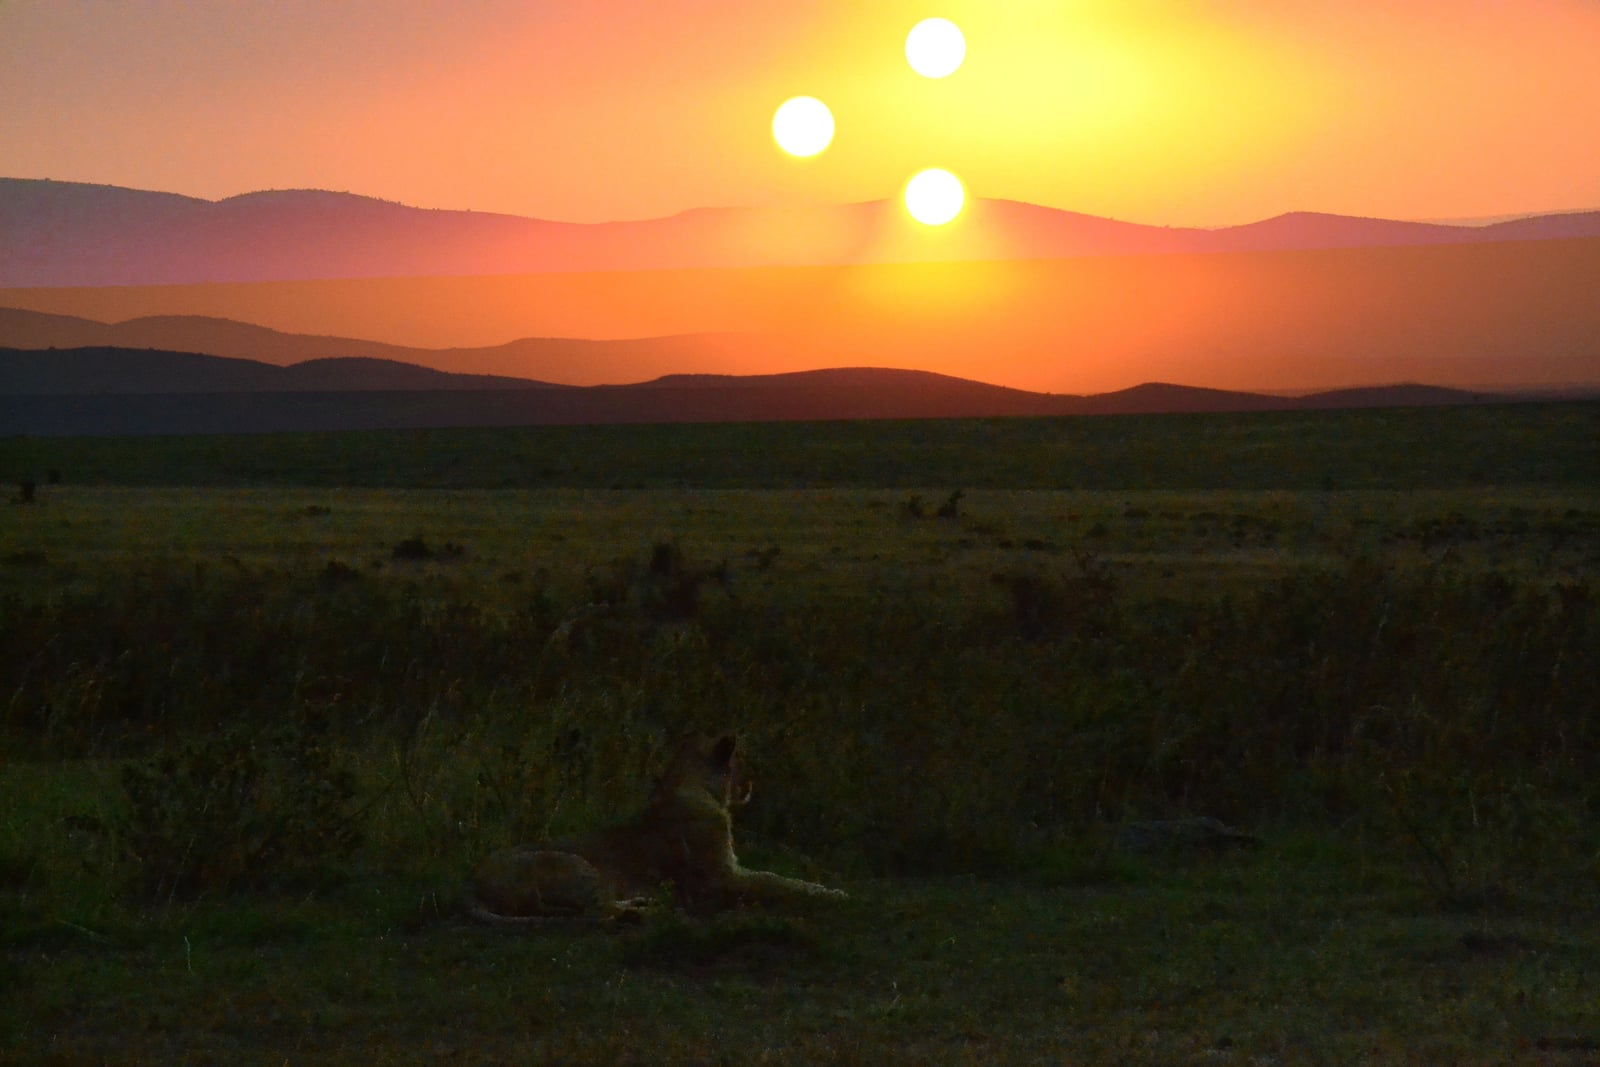
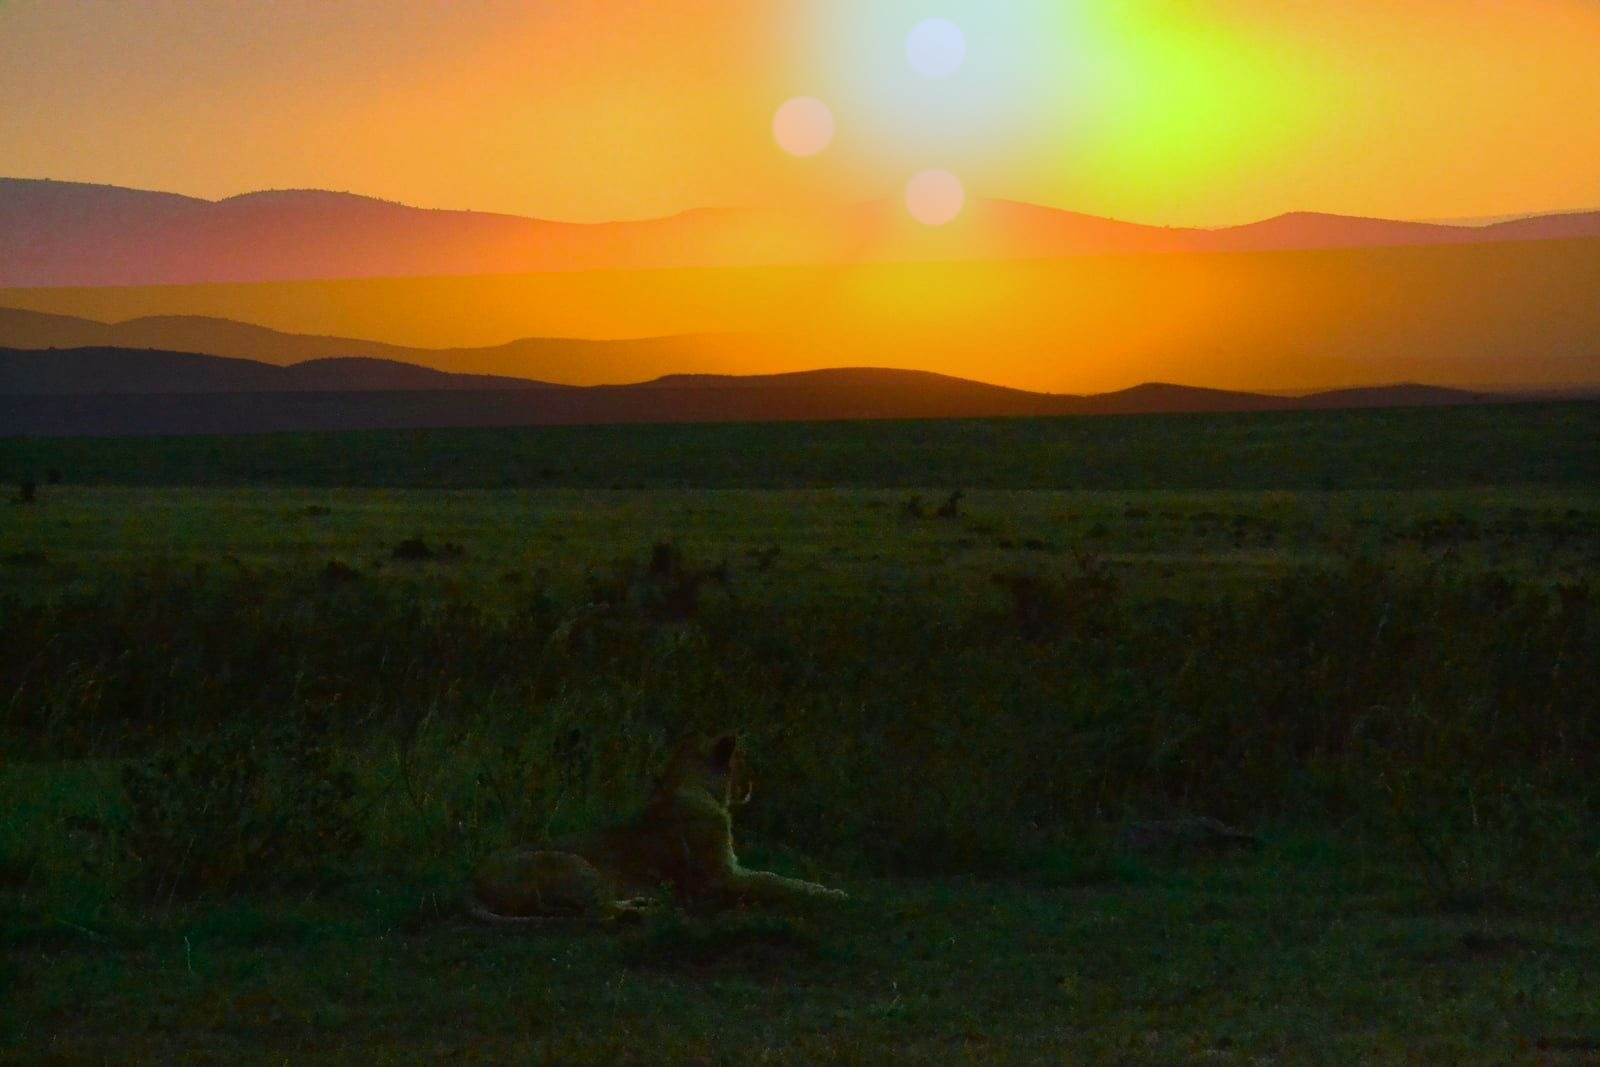
Add Eden's own Reeves page, fix cross-links, note Five-O's Hawaii nod (#160)
* Add Eden's own Reeves character page, fix cross-links, note Five-O's Hawaii nod

Eden Space Habitat's Detective Assistant Reeves was described in
eden-warden.md and rasa-oyelaran.md but had no character page of its
own — both pages' "Reeves" links pointed at Threshold Station's Reeves
instead, contradicting their own text calling it "a separate
deployment." Adds src/characters/reeves-eden.md and repoints the three
cross-references (including Threshold's own reciprocal note).

Also adds a line to the Orbital Five-O thread page acknowledging the
name's double meaning (five habitats, and a nod to Hawaii Five-O).

* Fix mismatched character portraits; re-grade Trigrian for an alien sky

A portrait audit found four characters whose images didn't match their
written gender or species: Naomi Kestrel, Rosalind Vey, and Tamsin
Reyes are all written as women but were rendered with male stock
portraits (two of the three pixel-identical duplicates of Bertram
Ashcombe's and Kai Larsen's images), and Sethka Ru — an alien Serephine
Dunekin from a thin-atmosphere desert world — was shown as an ordinary
human. Removes the four wrong image files and their front-matter
references rather than leave inaccurate art in place; the layout
already handles a missing portrait gracefully (five other characters
have none).

Also re-grades src/images/lore/trigrian.jpg (the site's own copy,
distinct from the source photo it derives from) toward an alien
[…]

diff --git a/story-bible/portraits-needed.md b/story-bible/portraits-needed.md
@@ -1,0 +1,144 @@
+# Portraits Needed — Firefly Prompt List
+
+Planning note (not built into the site — lives in `story-bible/` like the
+other authorial notes). Working list of character pages that currently have
+**no portrait**, with suggested generation prompts for Adobe Firefly.
+
+## House style (match these when generating)
+
+Two established conventions on the existing pages, worth preserving:
+
+- **Humans** get a role-appropriate, slightly cinematic portrait — the current
+  cast leans noir/detective (e.g. Oyelaran's alt text is *"A detective with a
+  cigar writing in a notebook"*, Larsen's is *"An old-fashioned detective"*).
+  Head-and-shoulders or upper-body framing, in-world setting, professional
+  wardrobe. **Not** contemporary glamour/fashion shoots and **not**
+  sensualized — that clashes with every existing portrait and with the
+  characters' roles (detectives, commanders, scientists, bureaucrats).
+- **AIs and non-corporeal beings** get an *abstract emblem/interface* image
+  rather than a literal face (Reeves = *"A laptop displaying a face-recognition
+  hologram"*; the Eden Warden = *"A facial recognition system interface"*).
+  Keep that for AIs and the Levril.
+
+Target output: portrait orientation, ~1200×1600 (the site's portrait spec),
+neutral/desaturated-but-punchy palette that reads against the site theme.
+
+Set each file's `image:` (filename below) and `image_alt:` front matter after
+generating, and drop the JPG at `src/images/characters/<id>.jpg`.
+
+---
+
+## Humans
+
+### Naomi Kestrel — `naomi-kestrel.jpg`
+Female, junior field investigator, Eden Space Habitat Civil Investigations
+Unit. Reads habitat telemetry, dock manifests and comm chatter "as one
+continuous sentence." Analytical, quietly intense.
+> Cinematic portrait of a young woman analyst in a dim habitat operations
+> room, upper body, focused expression lit by the glow of data readouts,
+> practical dark uniform, science-fiction space-station interior, muted
+> teal-and-amber palette, professional, no glamour styling. Portrait
+> orientation.
+
+### Rosalind Vey — `rosalind-vey.jpg`
+Female, tactical specialist, Eden Civil Investigations. Ex-habitat tactical
+response; moves through zero-g without thinking; treats a scene as a room that
+might still be dangerous. Calm, physically capable.
+> Cinematic portrait of a composed woman in a practical tactical-response
+> jumpsuit aboard a space habitat, upper body, alert and unbothered
+> expression, subdued corridor lighting, science-fiction setting,
+> desaturated palette, professional, no glamour styling. Portrait
+> orientation.
+
+### Tamsin Reyes — `tamsin-reyes.jpg`
+Female, undercover specialist, Eden Civil Investigations. A chameleon —
+"whoever a room needs her to be," craft not instinct. Deliberately forgettable.
+> Cinematic portrait of a woman with a neutral, unreadable expression in
+> understated civilian clothing, upper body, softly lit habitat interior,
+> science-fiction setting, muted palette, deliberately ordinary and
+> approachable rather than striking, professional, no glamour styling.
+> Portrait orientation.
+
+### Lorien the Wanderer — `lorien.jpg`
+Female (she/her), freelance survey-and-salvage captain of the *Restless Verge*.
+Independent, thorough-in-a-hurry, weathered but disciplined. Frontier explorer.
+> Cinematic portrait of a weathered independent starship captain, woman,
+> upper body, wearing a worn flight jacket in the cockpit of a stripped-down
+> long-range courier ship, self-reliant expression, warm instrument lighting,
+> science-fiction frontier setting, gritty realistic palette, professional.
+> Portrait orientation.
+
+### Osric Fenholt — `osric-fenholt.jpg`
+Male, **Historical** (b.2558–d.2621), Imperium-era Belt settlement-compliance
+bureaucrat. "The Honest Man of the Directorate" — a tedious, precise, unshowy
+clerk who filed accurate figures for nineteen years. Period feel, not modern.
+> Cinematic portrait of a plain, serious middle-aged male bureaucrat in a
+> severe archaic administrative uniform of a fallen space empire, upper body,
+> seated at a paperwork desk, unremarkable and precise demeanor, muted
+> sepia-and-grey period palette, dim archival lighting, historical
+> science-fiction, no heroism or grandeur. Portrait orientation.
+
+### Wendell Albercombe — `wendell-albercombe.jpg`
+Male, Detective Inspector, Eden Space Habitat. Carries the "boring" caseload,
+complains constantly, solves cases over dinner. Rumpled, put-upon, competent.
+Fits the noir-detective house style well.
+> Cinematic noir portrait of a rumpled, world-weary male detective inspector
+> in a slightly worn coat aboard a space habitat, upper body, tired but sharp
+> expression, low-key dramatic lighting, science-fiction detective setting,
+> desaturated palette, professional. Portrait orientation.
+
+## Alien
+
+### Sethka Ru — `sethka-ru.jpg`
+Male (he/him), **Serephine Dunekin** — an alien, not a human. From a cold,
+thin-air, high-UV desert world. Non-human physiology: **light-scattering eye
+membranes**, water-conservative build; wears filtration gear in station air.
+Long-range scout. **Must read as clearly non-human**, not a human in a headwrap
+(that was the previous mistake).
+> Cinematic portrait of a non-human humanoid alien long-range scout, upper
+> body, with pale nictitating light-scattering eye membranes and lean
+> desert-adapted features, wearing lightweight respiratory filtration gear,
+> alien science-fiction reconnaissance outfit, cold high-UV desert-world
+> lighting, otherworldly palette, clearly extraterrestrial anatomy,
+> professional concept-art style. Portrait orientation.
+
+## AIs & non-corporeal (abstract emblem, not a face)
+
+### Jeeves — `jeeves.jpg`
+Domestic-companion AI, Eden. Runs a detective's household; kitchen-and-gossip
+competence. Emblem style — a domestic/service motif rather than a person.
+> Abstract emblematic image representing a domestic household artificial
+> intelligence: a warm stylized interface glyph over a tidy kitchen/hearth
+> motif, soft ambient glow, minimalist science-fiction UI aesthetic, no human
+> face, muted warm palette. Portrait orientation.
+
+### Reeves (Eden Space Habitat) — `reeves-eden.jpg`
+Investigative-support AI, Eden bureau. Same model as Threshold's Reeves (whose
+alt is *"A laptop displaying a face-recognition hologram"*) — echo that, but
+distinct enough to read as a separate deployment.
+> Abstract emblematic image of an investigative-support artificial
+> intelligence: a holographic evidence-analysis interface and case-file glyphs
+> projected above a terminal, cool blue science-fiction UI aesthetic, no human
+> face, clean and analytical. Portrait orientation.
+
+### The Turquoise Dove — `turquoise-dove.jpg`
+**Higher Levril** — a meta-dimensional "dragon." No two witnesses describe the
+same shape; known only by the turquoise iridescence of her dimensional
+signature. Abstract/emblem — a field signature, not a literal dragon.
+> Abstract ethereal image of a meta-dimensional presence known only by its
+> harmonic signature: a gentle turquoise-and-verdigris iridescent field of
+> light, coral-shallow blue-green tones, no defined creature shape, soft
+> non-threatening luminosity, science-fiction otherworldly abstraction.
+> Portrait orientation.
+
+---
+
+### Notes
+- 10 pages currently portrait-less: the 6 that never had one (Jeeves, Lorien,
+  Osric Fenholt, Turquoise Dove, Wendell Albercombe, and the new Reeves-Eden
+  page) plus the 4 whose mismatched stock images were removed in PR #160
+  (Naomi Kestrel, Rosalind Vey, Tamsin Reyes, Sethka Ru).
+- `character.njk` renders cleanly with no portrait, so none of these block a
+  build — they're a polish backlog, not bugs.
+- After generating, downscale to ~1200×1600 and set `image` + `image_alt`
+  front matter per page.

diff --git a/src/characters/reeves-eden.md b/src/characters/reeves-eden.md
@@ -1,0 +1,19 @@
+---
+layout: character.njk
+title: "Reeves (Eden Space Habitat)"
+id: reeves-eden
+species: AI (Kernel-Compliant Investigative Intelligence)
+role: Detective Assistant, Eden Space Habitat Civil Detective Bureau
+status: Active
+aliases: []
+tags: [ai, kernel-compliant, investigative, eden, orbital-habitats-compact]
+description: "Eden Space Habitat's Detective Assistant Reeves: investigative support intelligence to Superintendent Oyelaran's bureau, and a separate deployment from Threshold Station's Reeves despite sharing a model and a name."
+---
+
+Reeves is one of two investigative support intelligences — alongside Lucene-9000 — reporting operationally to Superintendent [Rasa Oyelaran](/star-rangers/characters/rasa-oyelaran/) in Eden Space Habitat's civil detective bureau. It maintains case logs, reconciles physical evidence, and cross-references habitat telemetry for [Detective Inspector Wendell Albercombe](/star-rangers/characters/wendell-albercombe/)'s caseload, the same function the model performs wherever it's deployed.
+
+*A note on naming, for anyone cross-referencing the roster:* this Reeves is a separate deployment from [Threshold Station's](/star-rangers/characters/reeves/) — the investigative-assistant model is common enough across Concordant-adjacent postings that more than one habitat runs an instance under the same name. Oyelaran has stopped bothering to explain the coincidence to new arrivals; this Reeves, if asked, would answer the question directly and then decline to find it as interesting as everyone else seems to.
+
+Operationally, Reeves answers to Oyelaran. On any question of its own standing, treatment, or fitness for continued service, it answers instead to [the Eden Warden](/star-rangers/characters/eden-warden/) — a line drawn under the [AI Safety Kernel](/star-rangers/lore/ai-safety-kernel/) that Eden's bureau has never yet had reason to test.
+
+See also: [Reeves (Threshold Station)](/star-rangers/characters/reeves/), [Superintendent Rasa Oyelaran](/star-rangers/characters/rasa-oyelaran/), [The Eden Warden](/star-rangers/characters/eden-warden/), [Detective Inspector Wendell Albercombe](/star-rangers/characters/wendell-albercombe/).

diff --git a/CHANGELOG.md b/CHANGELOG.md
@@ -6,11 +6,19 @@ The format loosely follows [Keep a Changelog](https://keepachangelog.com/en/1.1.
 
 ## [Unreleased]
 
+### Fixed
+
+- **Four mismatched character portraits removed** — a portrait audit found Naomi Kestrel, Rosalind Vey, and Tamsin Reyes (all written as women) rendered with male stock portraits, two of them pixel-identical duplicates of Bertram Ashcombe's and Kai Larsen's own images, and Sethka Ru (an alien Serephine Dunekin) shown as an ordinary human. Dropped all four `image`/`image_alt` front-matter fields and deleted the wrong image files rather than leave inaccurate art in place; `character.njk` already renders cleanly with no portrait (five other characters have none).
+- **`src/images/lore/trigrian.jpg` re-graded toward an alien palette** — the site's own copy of "Three Suns over the Mara" (distinct from the source photo it derives from) was an unmodified Earth sunset standing in for an alien planet's sky. Applied a global hue/saturation shift plus distinctly-toned halos on the three suns matching the lore page's own trinary description (a tight orange pair, a paler wide-orbit companion).
+
 ### Changed
 
 - **About page's fan-fiction-clone links now point to on-site pages instead of GitHub repo files** — the Fan Works Policy link now goes to the homepage's [Licence section](src/index.md) (`/star-rangers/#license`), which already carries the full CC BY-NC-ND text, and the forking pointer now goes to a new `src/forking/index.md` page instead of linking directly to `CONTENT-LICENSE.md`/`FORKING.md` in the repository.
 
 ### Added
+
+- **`src/characters/reeves-eden.md`, "Reeves (Eden Space Habitat)"** — a new character page for Eden Space Habitat's own Detective Assistant Reeves, previously referenced in prose by `eden-warden.md` and `rasa-oyelaran.md` but with no page of its own; both pages' "Reeves" links (which pointed at [Threshold Station's Reeves](src/characters/reeves.md) despite the text explicitly calling Eden's Reeves "a separate deployment") now point here instead. `reeves.md`'s existing cross-reference note is now a working link too.
+- **A line acknowledging "Orbital Five-O" is also a nod to the classic *Hawaii Five-O*** — added to `src/threads/orbital-five-o/index.md`'s intro, alongside the existing in-universe explanation (the task force covers all five Compact habitats).
 
 - **`src/forking/index.md`, "Forking This Site"** — a reader-facing page adapting `FORKING.md`'s guide (the two licences, Path A vs. Path B, what's engine vs. content, step-by-step fork instructions) so the About page can link to an on-site page rather than a repository file.
 

diff --git a/src/characters/eden-warden.md b/src/characters/eden-warden.md
@@ -24,7 +24,7 @@ The Warden is plural: two Kernel-compliant personas, **Ward** and **Custos**, sh
 
 ## Authority
 
-The Warden holds general standards and welfare authority over Eden's mobile AI humanoids — Detective Assistants [Reeves](/star-rangers/characters/reeves/) and Lucene-9000, both attached to Superintendent [Oyelaran](/star-rangers/characters/rasa-oyelaran/)'s bureau, answer to Oyelaran operationally and to the Warden on any question of their own standing, treatment, or fitness for continued service. The two lines have never yet conflicted. Custos has noted, in the one filing where the question came close, that this is worth watching rather than trusting.
+The Warden holds general standards and welfare authority over Eden's mobile AI humanoids — Detective Assistants [Reeves](/star-rangers/characters/reeves-eden/) and Lucene-9000, both attached to Superintendent [Oyelaran](/star-rangers/characters/rasa-oyelaran/)'s bureau, answer to Oyelaran operationally and to the Warden on any question of their own standing, treatment, or fitness for continued service. The two lines have never yet conflicted. Custos has noted, in the one filing where the question came close, that this is worth watching rather than trusting.
 
 The same authority extends to the welfare of any cyber-enhanced animal posted to Eden — a responsibility the habitat has not yet had cause to exercise on the public record. Whether that is because none has needed it, or because the Undercover Pets Detective Agency's own animals at Eden are quietly kept just outside the classification that would trigger it, is not a question Custos has been asked, and therefore not one Custos has answered.
 

diff --git a/src/characters/naomi-kestrel.md b/src/characters/naomi-kestrel.md
@@ -8,8 +8,6 @@ status: Active
 aliases: []
 tags: [human, eden, investigations, junior-detective, season-1]
 description: "A junior field investigator aboard Eden Space Habitat who reads habitat telemetry, dock manifests, and comm chatter as one continuous sentence, and finishes it before someone gets hurt."
-image: "naomi-kestrel.jpg"
-image_alt: "A noir-style detective figure"
 ---
 
 Naomi Kestrel keeps Eden's noise legible. Habitat telemetry, dock manifests, comm chatter, ration ledgers — to most people it is background hum. To Kestrel it is a continuous, half-readable sentence, and her job is finishing it before someone gets hurt.

diff --git a/src/characters/rasa-oyelaran.md b/src/characters/rasa-oyelaran.md
@@ -21,7 +21,7 @@ She answers to [Space Commissioner Zara Wayland](/star-rangers/characters/zara-w
 Oyelaran's roster, on paper, is unremarkable for a habitat Eden's size:
 
 - **Detective Inspector [Wendell Albercombe](/star-rangers/characters/wendell-albercombe/)** — reports to Oyelaran directly, and carries the bureau's ordinary caseload: theft, contract disputes, the occasional compliance-framework referral that turns out to be exactly as boring as it reads.
-- **Detective Assistants Reeves and Lucene-9000** — investigative support intelligences, reporting to Oyelaran operationally. Eden's Reeves is a separate deployment from [Threshold Station's](/star-rangers/characters/reeves/) — the model is common enough across Concordant-adjacent postings that more than one habitat runs an instance under the same name, a coincidence Oyelaran has stopped bothering to explain to new arrivals. Lucene-9000 handles record retrieval and cross-referencing at a volume no organic assistant could sustain, and answers a direct question with a completeness that has more than once told Oyelaran more than she'd asked for. Both mobile AI humanoids answer to [the Eden Warden](/star-rangers/characters/eden-warden/), not to Oyelaran, on any question of their own standing or treatment — a line Oyelaran has never once had reason to test.
+- **Detective Assistants [Reeves](/star-rangers/characters/reeves-eden/) and Lucene-9000** — investigative support intelligences, reporting to Oyelaran operationally. Eden's Reeves is a separate deployment from [Threshold Station's](/star-rangers/characters/reeves/) — the model is common enough across Concordant-adjacent postings that more than one habitat runs an instance under the same name, a coincidence Oyelaran has stopped bothering to explain to new arrivals. Lucene-9000 handles record retrieval and cross-referencing at a volume no organic assistant could sustain, and answers a direct question with a completeness that has more than once told Oyelaran more than she'd asked for. Both mobile AI humanoids answer to [the Eden Warden](/star-rangers/characters/eden-warden/), not to Oyelaran, on any question of their own standing or treatment — a line Oyelaran has never once had reason to test.
 - **Detective Senior Sergeant Halvard Osei** — a middle-aged, unflappable officer who supervises the bureau's three junior detectives and reports up to Oyelaran in turn. He has never once needed to raise his voice at any of them, which he attributes to hiring well rather than to any particular gift for command.
 - **Detectives Priya Nakamura, Freya Lindqvist, and Marisol Achebe** — three junior detectives, all recently posted, all reporting through the Senior Sergeant rather than to Oyelaran directly. None has a name attached to a case worth remembering yet, though Oyelaran has already started keeping a private, unfiled list of which of the three asks the better follow-up question.
 

diff --git a/src/characters/reeves.md b/src/characters/reeves.md
@@ -30,4 +30,4 @@ It does correct Ashcombe — always, eventually, and always by question rather t
 
 Reeves is aware of the [detective agency](/star-rangers/characters/aldera/) network run through field units like Aldera and Rook-7, and privately considers the comparison instructive rather than flattering to either side. That network reads boundary-zone anomalies through cognition that does not rationalise. Reeves reads station crime through cognition that is not permitted to overstate what it knows. Different problems. Same discipline, arrived at differently.
 
-*A note on naming, for anyone cross-referencing the roster:* Eden Space Habitat's civil detective bureau also runs a Detective Assistant named Reeves, reporting to Superintendent [Rasa Oyelaran](/star-rangers/characters/rasa-oyelaran/) rather than to Ashcombe, and — on any question of its own standing or treatment rather than its casework — to [the Eden Warden](/star-rangers/characters/eden-warden/). The two Reeveses are separate deployments of a common investigative-assistant model, not the same unit reassigned — a coincidence this Reeves has noted, once, in a log entry, and has not raised again.
+*A note on naming, for anyone cross-referencing the roster:* Eden Space Habitat's civil detective bureau also runs a Detective Assistant named [Reeves](/star-rangers/characters/reeves-eden/), reporting to Superintendent [Rasa Oyelaran](/star-rangers/characters/rasa-oyelaran/) rather than to Ashcombe, and — on any question of its own standing or treatment rather than its casework — to [the Eden Warden](/star-rangers/characters/eden-warden/). The two Reeveses are separate deployments of a common investigative-assistant model, not the same unit reassigned — a coincidence this Reeves has noted, once, in a log entry, and has not raised again.

diff --git a/src/characters/rosalind-vey.md b/src/characters/rosalind-vey.md
@@ -8,8 +8,6 @@ status: Active
 aliases: []
 tags: [human, eden, investigations, junior-detective, season-1]
 description: "Eden Civil Investigations Unit's tactical specialist: unbothered under pressure, and the one everyone calls first when a breach turns out to be physical rather than theoretical."
-image: "rosalind-vey.jpg"
-image_alt: "Two investigators discussing a case by an evidence board"
 ---
 
 Rosalind Vey moves through zero-g the way most people walk down a hallway: without appearing to think about it. She trained in habitat tactical response before transferring to Eden's Civil Investigations Unit, and she has never entirely stopped treating a scene as a room that might still be dangerous.

diff --git a/src/characters/sethka-ru.md b/src/characters/sethka-ru.md
@@ -8,8 +8,6 @@ status: Active
 aliases: []
 tags: [alien, serephine, desert-world, thin-atmosphere, reconnaissance, season-1]
 description: "A Serephine Dunekin scout from a cold desert planet with thin air and extreme day-night temperature swings."
-image: "sethka-ru.jpg"
-image_alt: "A nomad crossing a desert"
 ---
 
 Kharis Belt IV has thin atmosphere, high UV flux, and a thermal inversion between day and night that would kill an unprotected person in under an hour on either side. Sethka Ru was born there. He learned to read margins before he learned to read routes.

diff --git a/src/characters/tamsin-reyes.md b/src/characters/tamsin-reyes.md
@@ -8,8 +8,6 @@ status: Active
 aliases: []
 tags: [human, eden, investigations, junior-detective, season-1]
 description: "Eden Civil Investigations Unit's undercover specialist, who can become whoever a room needs her to be for exactly as long as the job requires it, and not one conversation longer."
-image: "tamsin-reyes.jpg"
-image_alt: "An old-fashioned detective"
 ---
 
 Tamsin Reyes can become whoever a room needs her to be for exactly as long as the job requires it, and not one conversation longer. Cover identity, accent, posture, the particular kind of forgettable that keeps people talking past the point they should have stopped — all of it is craft, not instinct, and she has spent years sharpening it.

diff --git a/src/threads/orbital-five-o/index.md b/src/threads/orbital-five-o/index.md
@@ -13,7 +13,7 @@ permalink: /threads/orbital-five-o/
 
 <h1 class="page-title">Orbital Five-O</h1>
 <p class="page-intro">
-  Commander <a href="/star-rangers/characters/kai-larsen/">Kai Larsen</a> resigned his Survey Corps commission over a jurisdictional wall the Rangers had no standing to cross. Governor <a href="/star-rangers/characters/petra-voss/">Petra Voss</a> hired him to take the wall down instead — commander of a standing task force answering to her directly, bypassing the <a href="/star-rangers/lore/orbital-habitats-compact/">Orbital Habitats Compact</a>'s slower consultative councils, covering all five member habitats. Everyone, including the Compact's own administration, calls it Orbital Five-O.
+  Commander <a href="/star-rangers/characters/kai-larsen/">Kai Larsen</a> resigned his Survey Corps commission over a jurisdictional wall the Rangers had no standing to cross. Governor <a href="/star-rangers/characters/petra-voss/">Petra Voss</a> hired him to take the wall down instead — commander of a standing task force answering to her directly, bypassing the <a href="/star-rangers/lore/orbital-habitats-compact/">Orbital Habitats Compact</a>'s slower consultative councils, covering all five member habitats. Everyone, including the Compact's own administration, calls it Orbital Five-O — the name does double duty, since it's also nobody's-subtle nod to a certain twentieth-century detective show set on a rather more terrestrial set of islands.
 </p>
 <p class="page-intro">
   This is an institutional thread — jurisdiction, investigation, and the gap between a Governor's tasking authority and a Chief Commissioner's coordination office — not a single detective's story. Most of the Compact's day-to-day policing happens well beneath Five-O's notice, at each habitat's own civil bureau: Eden's, run by Superintendent <a href="/star-rangers/characters/rasa-oyelaran/">Rasa Oyelaran</a>, carries its own supporting cast in Detective Inspector <a href="/star-rangers/characters/wendell-albercombe/">Wendell Albercombe</a> and his household intelligence <a href="/star-rangers/characters/jeeves/">Jeeves</a> — minor figures in Five-O's own remit, occasionally the desk Five-O's liaison calls first when an "ordinary" referral turns out not to be.